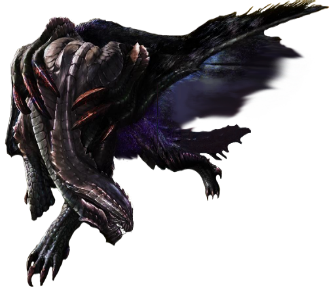
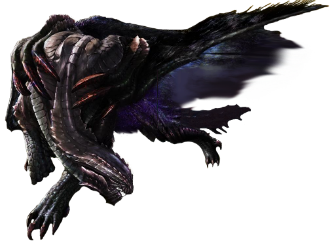
스탯스크린 작성중.. & 몹 이미지 리사이징

diff --git a/miniProject/src/dragonslayer/BackgroundImagePanel.java b/miniProject/src/dragonslayer/BackgroundImagePanel.java
@@ -2,10 +2,9 @@ package dragonslayer;
 
 import java.awt.Graphics;
 import java.awt.Image;
-import java.awt.Toolkit;
-
 import javax.swing.JPanel;
 
+@SuppressWarnings("serial")
 public class BackgroundImagePanel extends JPanel{
 	private Image backgroundimg;
 
